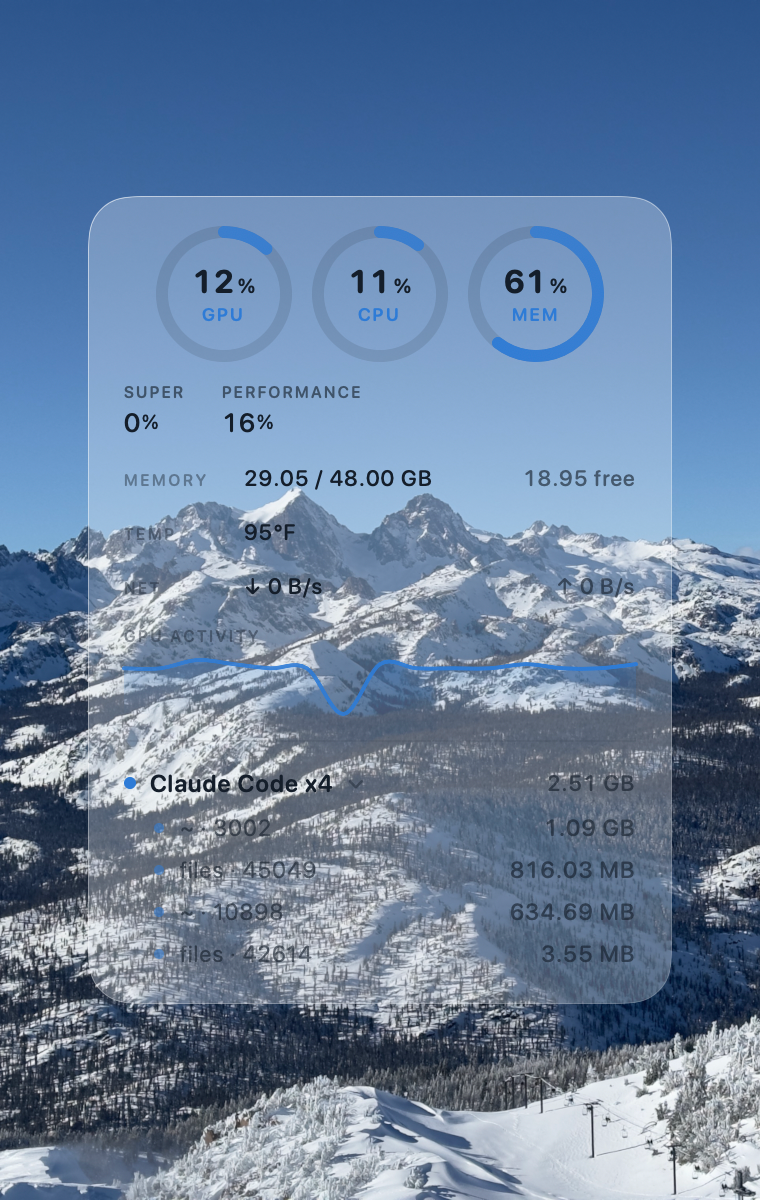
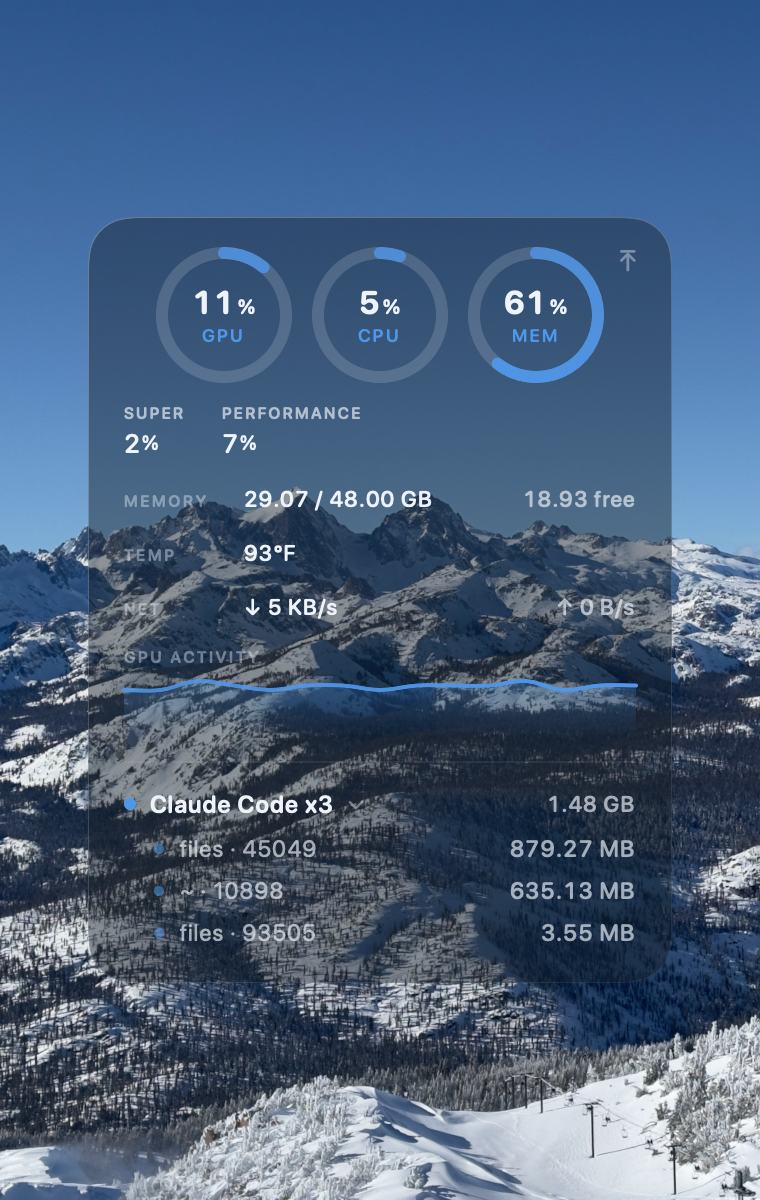
Add in-island snap button (compact + expanded) to center under the camera; menu mirrors it

diff --git a/Sources/MonitorIsland/AppDelegate.swift b/Sources/MonitorIsland/AppDelegate.swift
@@ -14,6 +14,7 @@ final class AppDelegate: NSObject, NSApplicationDelegate {
 
     func applicationDidFinishLaunching(_ notification: Notification) {
         FontLoader.register()
+        model.onSnapToggle = { [weak self] in self?.toggleSnap() }
         buildWindow()
         buildStatusItem()
         model.start()
@@ -59,7 +60,7 @@ final class AppDelegate: NSObject, NSApplicationDelegate {
 
         // Restore snapped-under-camera mode across launches.
         if UserDefaults.standard.bool(forKey: snappedKey) {
-            snappedUnderCamera = true
+            setSnapped(true)
             DispatchQueue.main.async { [weak self] in self?.positionUnderCamera() }
         }
 
@@ -101,11 +102,7 @@ final class AppDelegate: NSObject, NSApplicationDelegate {
         // Ignore moves we triggered ourselves (snap / recenter).
         if repositioning { return }
         // A manual drag breaks the snap so the user can place it freely.
-        if snappedUnderCamera {
-            snappedUnderCamera = false
-            UserDefaults.standard.set(false, forKey: snappedKey)
-            snapMenuItem?.state = .off
-        }
+        if snappedUnderCamera { setSnapped(false) }
         let o = window.frame.origin
         UserDefaults.standard.set("\(o.x),\(o.y)", forKey: originKey)
     }
@@ -137,14 +134,24 @@ final class AppDelegate: NSObject, NSApplicationDelegate {
         DispatchQueue.main.async { [weak self] in self?.repositioning = false }
     }
 
-    @objc private func snapUnderCamera() {
+    private func setSnapped(_ on: Bool) {
+        snappedUnderCamera = on
+        model.snapped = on
+        snapMenuItem?.state = on ? .on : .off
+        UserDefaults.standard.set(on, forKey: snappedKey)
+    }
+
+    // Toggled from the menu item AND the in-island snap button.
+    @objc private func toggleSnap() {
+        if snappedUnderCamera {
+            setSnapped(false)   // release; leave the island where it is
+            return
+        }
         // Unobtrusive: collapse to the compact pill, then center under the camera.
         if model.expanded {
             withAnimation(.spring(response: 0.4, dampingFraction: 0.8)) { model.expanded = false }
         }
-        snappedUnderCamera = true
-        UserDefaults.standard.set(true, forKey: snappedKey)
-        snapMenuItem?.state = .on
+        setSnapped(true)
         if !window.isVisible { window.makeKeyAndOrderFront(nil) }
         DispatchQueue.main.async { [weak self] in self?.positionUnderCamera() }
     }
@@ -155,7 +162,7 @@ final class AppDelegate: NSObject, NSApplicationDelegate {
         let menu = NSMenu()
         menu.addItem(NSMenuItem(title: "Show / Hide", action: #selector(toggleVisible), keyEquivalent: "s"))
 
-        let snapItem = NSMenuItem(title: "Snap under camera", action: #selector(snapUnderCamera), keyEquivalent: "c")
+        let snapItem = NSMenuItem(title: "Snap under camera", action: #selector(toggleSnap), keyEquivalent: "c")
         snapItem.state = snappedUnderCamera ? .on : .off
         menu.addItem(snapItem)
         snapMenuItem = snapItem

diff --git a/Sources/MonitorIsland/IslandView.swift b/Sources/MonitorIsland/IslandView.swift
@@ -191,9 +191,24 @@ struct IslandView: View {
                 WorkloadDot(on: hasClaude, color: Theme.energy)
                 WorkloadDot(on: hasCodex, color: Theme.teal)
             }
+            snapButton
         }
         .padding(.horizontal, 15).padding(.vertical, 10)
         .fixedSize()
+    }
+
+    // In-island control to center the island under the camera (notch). Tapping it
+    // does not toggle expand/collapse because a Button consumes the tap.
+    var snapButton: some View {
+        Button { model.onSnapToggle?() } label: {
+            Image(systemName: "arrow.up.to.line")
+                .font(.system(size: 10, weight: .bold))
+                .foregroundStyle(model.snapped ? Theme.accent : Theme.textFaint)
+                .frame(width: 20, height: 20)
+                .contentShape(Rectangle())
+        }
+        .buttonStyle(.plain)
+        .help(model.snapped ? "Unsnap (drag freely)" : "Snap under camera")
     }
 
     func metric(_ label: String, _ value: Int, _ suffix: String, _ color: Color) -> some View {
@@ -222,6 +237,7 @@ struct IslandView: View {
                 RingGauge(value: s.memUsedPercent, accent: Theme.energy, caption: "MEM")
             }
             .frame(maxWidth: .infinity)
+            .overlay(alignment: .topTrailing) { snapButton.offset(x: 6, y: -6) }
 
             // Core-type split (Super / Performance / ...).
             HStack(spacing: 18) {

diff --git a/Sources/MonitorIsland/IslandModel.swift b/Sources/MonitorIsland/IslandModel.swift
@@ -9,6 +9,8 @@ final class IslandModel: ObservableObject {
     @Published var snap = Snapshot()
     @Published var expanded = false
     @Published var showOverlay = true
+    @Published var snapped = false                 // centered under the camera
+    var onSnapToggle: (() -> Void)?                // wired by AppDelegate
 
     let smoother = Smoother()
 